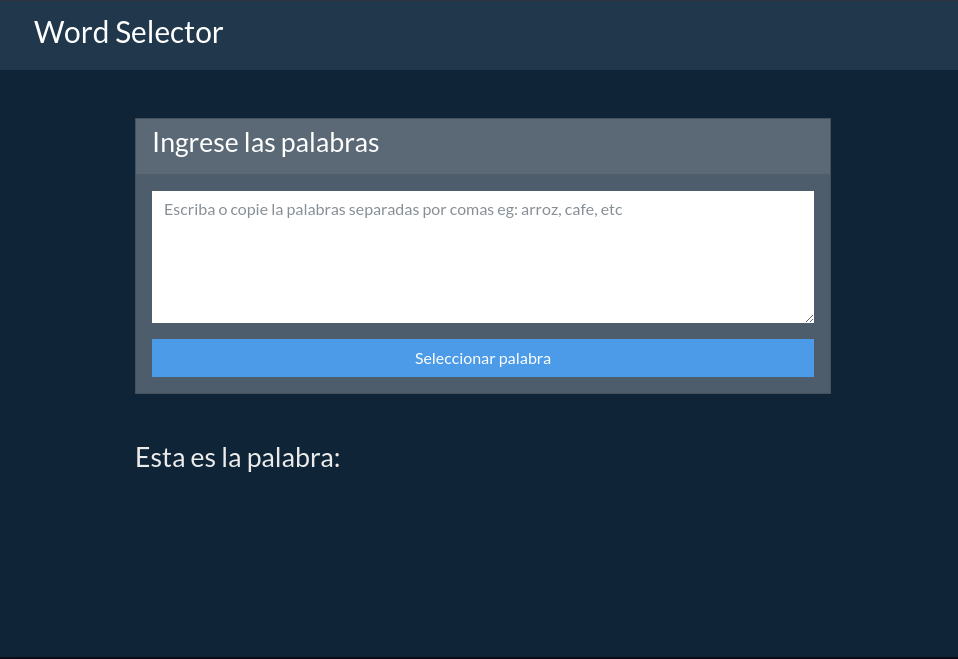
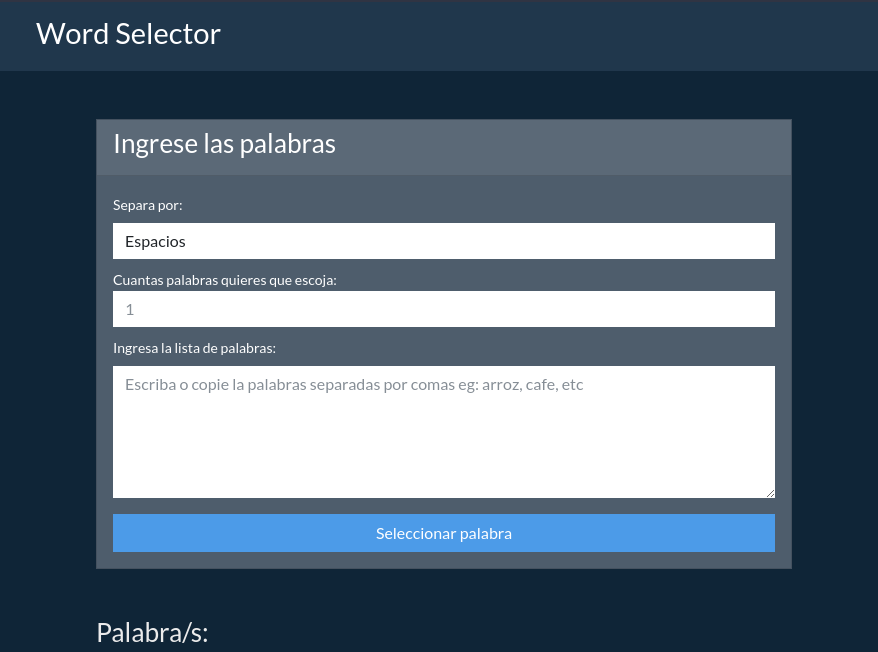
Added the function to choose how many words you want.

diff --git a/js/main.js b/js/main.js
@@ -1,18 +1,38 @@
 // Component selection
-let select = document.getElementById('select');
-let words = document.getElementById('words');
-let result = document.getElementById('result');
+let select = document.getElementById("select");
+let words = document.getElementById("words");
+let wordNumbersInput = document.getElementById("wordNumbers");
+let result = document.getElementById("result");
 
 // Event handler
-select.addEventListener('click', e => {
-    e.preventDefault();
+select.addEventListener("click", (e) => {
+  e.preventDefault();
 
-    // Array with the words
-    let wordsSplit = words.value.split(',');
+  // Change the value of the input to a numerical value
+  let wordNumbers = parseInt(wordNumbersInput.value);
 
-    // Random location in the array
-    let word = Math.floor((Math.random() * (wordsSplit.length - 1 + 1) + 1)) - 1;
+  result.innerHTML = ""; // Reset values
 
-    // Insert the word with the random index into the HTML
-    result.innerText = wordsSplit[word];
-})
+  let wordsSplit = words.value.split(","); // Array with the words
+
+  if (isNaN(wordNumbers) || wordNumbers === 1) {
+    wordSelectorHandler(wordsSplit);
+  } else {
+    if (wordNumbers > wordsSplit.length) {
+      result.innerHTML =
+        "<p>La lista de palabras no puede ser menor al numero de palabras</p>";
+    } else {
+      for (let i = 0; i < wordNumbers; i++) {
+        wordSelectorHandler(wordsSplit);
+      }
+    }
+  }
+});
+
+// Receive an array of words
+function wordSelectorHandler(wordsSplit) {
+  // Random location in the array
+  let word = Math.floor(Math.random() * (wordsSplit.length - 1 + 1) + 1) - 1;
+
+  result.innerHTML += `<p>${wordsSplit[word]}</p>`;
+}

diff --git a/index.html b/index.html
@@ -20,10 +20,22 @@
 
     <!-- Form -->
     <div class="container my-5">
-      <form class="card text-white bg-secundary mb-3">
+      <form class="card text-white bg-secundary mb-2">
         <div class="card-header"><h3>Ingrese las palabras</h3></div>
         <div class="card-body">
+          <div class="form-group mb-2">
+            <label class="form-label" for="option">Separa por:</label>
+            <select class="form-control" id="option">
+              <option value="Espacio">Espacios</option>
+              <option value="Comas">Comas</option>
+            </select>
+          </div>
+          <div class="fotm-group mb-2">
+            <label for="wordNumbers">Cuantas palabras quieres que escoja:</label>
+            <input class="form-control" type="number" id="wordNumbers" placeholder="1">
+          </div>
           <div class="form-group">
+            <label class="form-label" for="words">Ingresa la lista de palabras:</label>
             <textarea
               id="words"
               cols="30"
@@ -45,8 +57,8 @@
 
     <!-- See result -->
     <div class="container">
-      <h3>Esta es la palabra:</h3>
-      <p id="result"></p>
+      <h3>Palabra/s:</h3>
+      <div id="result"></div>
     </div>
 
     <script src="./js/main.js"></script>
